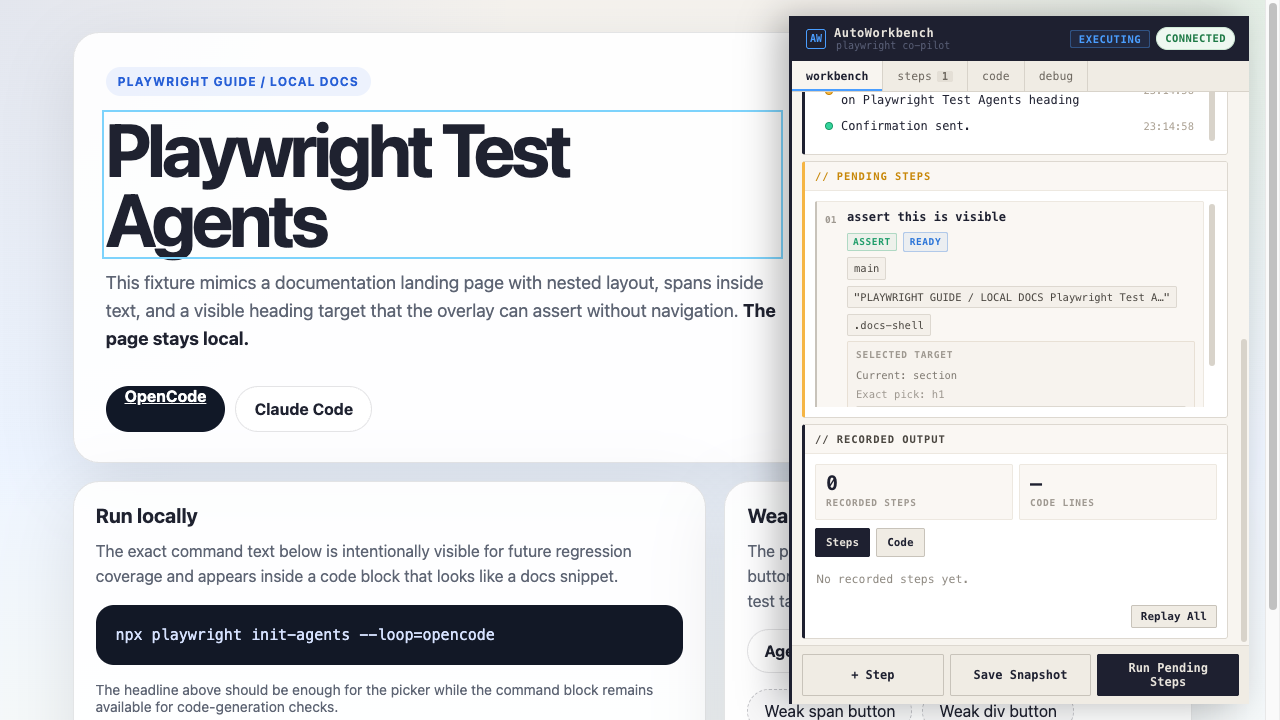
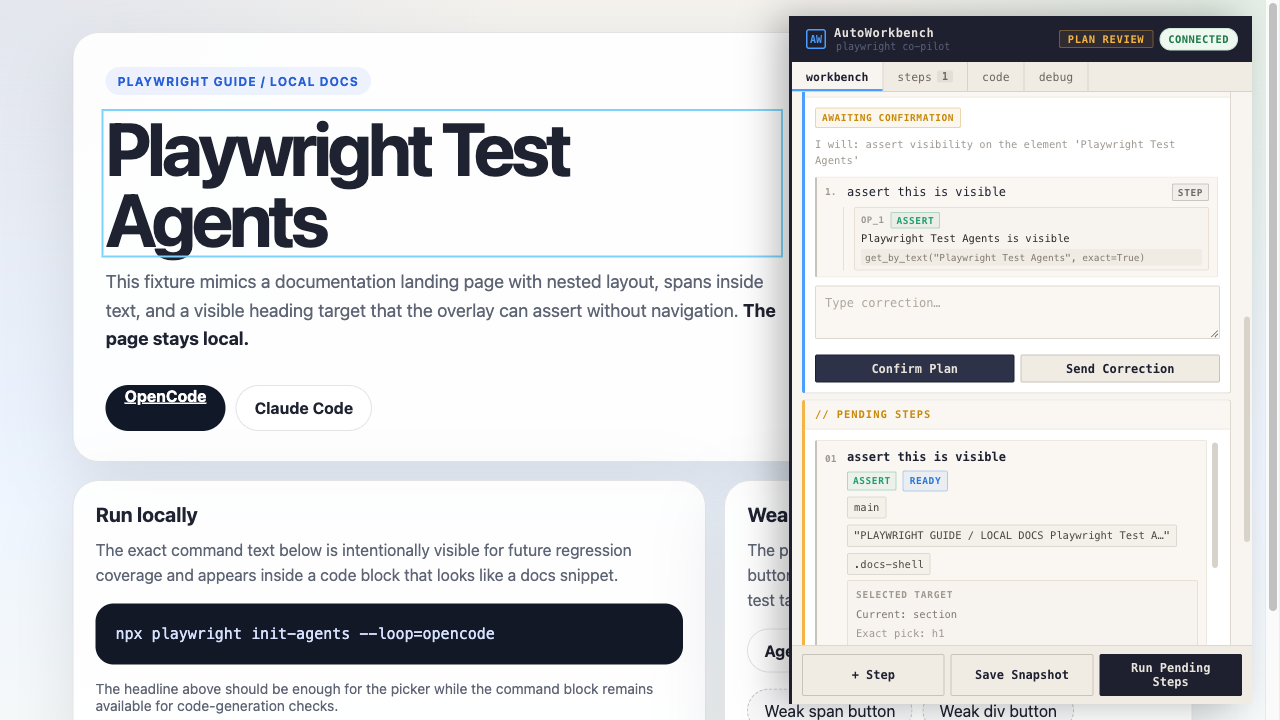
refactor: complete industrial-standard agent.py modularization
Extracted 15 focused domain modules from the 9302-line AgentLoop monolith:

- event/emitter.py: WebSocket send + emit helpers
- locator/resolver.py: locator building, resolution, escape helpers
- skills/loader.py: skill file loading and prompt composition
- step/manager.py: step state machine (23 delegate methods)
- recording/codegen.py: Playwright code generation
- recording/recorder.py: step recording and action history
- recording/replay.py: replay_one and replay_all
- plan/state.py: active plan and confirmed execution contract (31 methods)
- plan/builder.py: plan_ready payload builders
- plan/correction.py: diff editor pipeline and correction classification
- plan/confirmation.py: wait_for_plan_confirmation
- llm/client.py: LLMClient (moved from top-level llm.py)
- llm/tool_definitions.py: tool JSON schemas
- llm/tool_dispatcher.py: tool dispatch routing
- llm/orchestrator.py: LLM message history and followup logic
- ws/router.py: WebSocket command routing (extracted from server.py)

AgentLoop retains backward-compatible delegates. 528/528 tests green.

diff --git a/tests/test_recorded_step_model.py b/tests/test_recorded_step_model.py
@@ -976,6 +976,63 @@ def test_canonicalize_assertion_operation_prefers_exact_text_for_generic_main_lo
     assert child["locator"] == 'get_by_text("Playwright Test Agents", exact=True)'
 
 
+def test_canonicalize_visible_assertion_prefers_locator_hint_over_broad_source_text() -> None:
+    loop = _make_loop()
+    specific_target = "Playwright Test Agents"
+    broad_page_text = "PLAYWRIGHT GUIDE / LOCAL DOCS Playwright Test Agents docs landing page"
+    step_context = _make_step_context()
+    step_context["intent"] = f"Assert {specific_target} is visible"
+    step_context["element_name"] = broad_page_text
+    step_context["element_info"] = {
+        "text": broad_page_text,
+        "attributes": {"aria-label": broad_page_text},
+    }
+
+    child = loop._canonicalize_assertion_operation(
+        {
+            "type": "assert",
+            "target": broad_page_text,
+            "locator": f'get_by_text("{specific_target}", exact=True)',
+            "assertion": "visible",
+        },
+        source_step=step_context,
+    )
+
+    assert child["assertion"] == "visible"
+    assert child["target"] == specific_target
+    assert child["description"] == f"{specific_target} is visible"
+    assert child["locator"] == f'get_by_text("{specific_target}", exact=True)'
+
+
+def test_canonicalize_visible_assertion_prefers_source_locator_over_broad_child_locator() -> None:
+    loop = _make_loop()
+    specific_target = "Playwright Test Agents"
+    broad_page_text = "PLAYWRIGHT GUIDE / LOCAL DOCS Playwright Test Agents docs landing page"
+    step_context = _make_step_context()
+    step_context["intent"] = f"Assert {specific_target} is visible"
+    step_context["element_name"] = broad_page_text
+    step_context["element_info"] = {
+        "text": broad_page_text,
+        "attributes": {"aria-label": broad_page_text},
+    }
+    step_context["locator"] = f'get_by_text("{specific_target}", exact=True)'
+
+    child = loop._canonicalize_assertion_operation(
+        {
+            "type": "assert",
+            "target": broad_page_text,
+            "locator": f'get_by_text("{broad_page_text}", exact=True)',
+            "assertion": "visible",
+        },
+        source_step=step_context,
+    )
+
+    assert child["assertion"] == "visible"
+    assert child["target"] == specific_target
+    assert child["description"] == f"{specific_target} is visible"
+    assert child["locator"] == f'get_by_text("{specific_target}", exact=True)'
+
+
 def test_confirmed_visible_assertion_keeps_specific_target_and_emits_code_update_when_source_text_is_broader() -> None:
     loop = _make_loop()
     specific_target = "Playwright Test Agents"

diff --git a/AGENTS.md b/AGENTS.md
@@ -1,77 +1,76 @@
 <claude-mem-context>
 # Memory Context
 
-# [agent v4] recent context, 2026-05-06 11:27pm GMT+5:30
+# [agent v4] recent context, 2026-05-09 11:14pm GMT+5:30
 
 Legend: 🎯session 🔴bugfix 🟣feature 🔄refactor ✅change 🔵discovery ⚖️decision 🚨security_alert 🔐security_note
 Format: ID TIME TYPE TITLE
 Fetch details: get_observations([IDs]) | Search: mem-search skill
 
-Stats: 50 obs (28,900t read) | 481,423t work | 94% savings
+Stats: 50 obs (25,843t read) | 932,257t work | 97% savings
 
-### May 2, 2026
-S106 Read-only investigation of recorded parent/child display wording in AutoWorkbench (agent v4) — tracing why parent title and children repeat the same full intent text (May 2 at 7:34 AM)
-S110 Read-only investigation: corrected plan UI shows ASSERT child text as "navigation" instead of "Get started is visible" in agent v4 (May 2 at 11:40 AM)
-### May 3, 2026
-S111 Fix Element Picker target quality and parent/ancestor selection in agent v4 autoworkbench (May 3 at 5:54 PM)
-S113 Build AutoWorkbench Regression Harness v1 — automated test harness with fixture site, mocked LLM helpers, and six regression tests covering state/recording/correction flows in /Users/apple/personal/agent v4 (May 3 at 8:06 PM)
-S114 AutoWorkbench E2E harness port contract fix — backend was starting on PORT=8765 but harness waited on a dynamic port (May 3 at 8:48 PM)
-S112 Build AutoWorkbench Regression Harness v1 — automated end-to-end test harness with fixture site, mock LLM helpers, and six regression tests for state/recording/correction flows (May 3 at 8:48 PM)
-S115 AutoWorkbench E2E harness port contract fix — COMPLETE. Backend was starting on PORT=8765 (.env override) but harness waited on a dynamic port. Full fix delivered and E2E passing. (May 3 at 9:32 PM)
-S116 AutoWorkbench E2E harness port contract fix — all fixes shipped and verified, E2E passing in 48.84s (May 3 at 9:34 PM)
-S117 Tasks.md no-Docker source spike for AutoWorkbench — full evaluation of Markdown Kanban board tooling (May 3 at 9:35 PM)
-### May 6, 2026
-S120 EPIC-008 Recording and Codegen planning — preceded by deep review and quality audit of EPIC-007 Complete LLM Mode MVP Flows batch (May 6 at 1:53 AM)
-2082 2:34a 🔵 Existing Rejection/Blocking Patterns in agent.py Pre-Contract
-2083 2:35a 🟣 Task Markdown File Structure for Backend Runtime Truth Epic
-2084 " 🔵 Backend Runtime Session ID Implementation in agent.py
-2085 " ⚖️ Slice 1 Scope Locked: Contract Tests Before Implementation
-2086 2:36a 🔵 Canonical Schema Version String: "autoworkbench.spec.v1"
-2087 " 🔵 WebSocket Command/Response Envelope Contracts for replay_one and replay_all
-2088 2:37a 🔵 Exact Response Shape Assertions Exist for replay_one and replay_all WebSocket Routes
-2089 " 🔵 schema_version Not Asserted in replay_one or replay_all Response Tests
-2090 2:38a 🔵 Canonical Result Type Strings for All WebSocket Response Envelopes
-2091 " 🟣 Contract Test Suite Created for runtime/event_contracts.py
-2092 " 🟣 save_snapshot_result Envelope Upgraded to Canonical Backend Event Format
-2093 9:09p ⚖️ Batch 12 Testing Doctrine Review Initiated for AutoWorkbench / Playwright Automation Co-pilot
-2094 " 🔵 Batch 12 Testing Doctrine File Sizes Confirmed in AutoWorkbench Project
-2095 " 🔵 Batch 12 Full Testing Doctrine Content Read and Verified for AutoWorkbench
-2096 9:10p 🔵 FINAL-HANDOFF and PLAN-005 Cross-Reference Confirms Batch 12 Doctrine Consistency
-2097 9:19p ⚖️ Batch 13 Test Matrix Review Requested for AutoWorkbench Playwright Automation Co-pilot
-2098 " 🔵 Batch 13 Test Matrix Files Fully Read and Sized for AutoWorkbench Review
-2099 9:20p 🔵 Batch 13 Test Matrices Lack Several PATCH-010-Required Coverage Areas
-2100 9:21p 🔵 PATCH-010 Sections 4–6 Confirm Specific Missing Test Rows in Batch 13 Matrices
-2101 9:22p 🔵 PATCH-010 Sections 7–11 Confirm Frontend, E2E, Trace, and Handoff Gaps in Batch 13
-2102 9:33p 🔵 AutoWorkbench Batch 12/13 Test Mapping Initiative
-2103 " 🔵 AutoWorkbench Repo Test Structure: Complete Inventory
-2104 9:34p 🔵 AutoWorkbench: Complete Test Function Inventory and E2E Flow Details
-2105 9:35p 🔵 AutoWorkbench E2E Test Artifacts and Frontend Test Gap Confirmed
-2106 9:36p ⚖️ Batch 12 Testing Doctrine Review Initiated for AutoWorkbench / Playwright Automation Co-pilot
-2107 " 🔵 AutoWorkbench E2E Test Suite Architecture Mapped
-2108 " 🔵 Six Detailed Test Matrix Files Confirmed Present in AutoWorkbench Planning
-2109 9:37p 🔵 AutoWorkbench Full Task ID Taxonomy Mapped from FINAL-HANDOFF
-2110 9:40p 🔵 AutoWorkbench Core Architecture Contract Documented in SOURCE-001
-2111 9:53p ⚖️ FINAL-HANDOFF-v2 Planning Review Initiated for AutoWorkbench Playwright Co-pilot
-2112 9:54p 🔵 FINAL-HANDOFF-v2 Full Content Captured and Compared Against Source Planning Documents
-2113 10:06p ⚖️ DEVELOPER-EXECUTION-PLAN-001 Review Initiated for AutoWorkbench Playwright Automation Co-pilot
-2114 10:07p 🔵 AutoWorkbench Planning Document Suite Fully Read — DEVELOPER-EXECUTION-PLAN-001 Review Context Established
-2115 " 🔵 PATCH-012 Acceptance Criteria Confirmed — FINAL-HANDOFF-v2 Patch Chain Complete
-2116 10:08p 🔵 FINAL-HANDOFF-v2 Repo Gap Analysis Confirmed — Major Missing Infrastructure Identified
-2117 11:10p 🔵 AutoWorkbench Repo Baseline and Branch Strategy Audit Initiated
-2118 11:11p 🔵 AutoWorkbench Git State: Uncommitted Changes on test-dd-version-one Branch
-2119 11:19p ⚖️ Git Worktree Branch Strategy for Docs/Planning Baseline
-2120 11:20p 🔵 Agent-v4 Source Repo State: Dirty Worktree and Untracked Files Inventoried
-2121 " 🔴 Git Branch Creation Fails: "unable to create directory for refs/heads/backup/" and "refs/heads/docs/"
-2122 11:21p 🔵 Git Ref Lock Failure Root Cause: packed-refs or macOS Filesystem Permissions Issue
-2123 " 🔵 Git Slash-Branch Failure: Not packed-refs, Not Invalid Format — Likely macOS Filesystem or .git Lock File Issue
-2124 " 🔵 Root Cause Found: .git/refs/heads/ Directory is Write-Protected ("Operation not permitted")
-2125 11:24p 🔴 Backup Branch Created Successfully with Escalated Permissions
-2126 " 🟣 docs/planning-baseline Worktree Created at main (commit 08b2cdb)
-2127 " 🔴 rsync Fails with EPERM: --relative Creates Full Absolute Path Tree Instead of Copying to CWD
-2128 11:25p 🟣 rsync Copy to Baseline Worktree Succeeded with Escalated Permissions
-2129 " 🔴 Baseline Worktree Contains Forbidden Paths and Wrong Directory Tree from main Branch
-2130 11:26p 🔵 Branch Inventory: backup and docs/planning-baseline Successfully Created
-2131 " 🔵 Source Worktree Untouched; Baseline Worktree Has Only Spurious "Users/" as Untracked
+### May 8, 2026
+S134 Session start greeting — user said "hi" (May 8 at 4:56 PM)
+S135 Sprint 3 task board setup for AutoWorkbench / Playwright Automation Co-pilot — LLM Cost, Call Count, and Context Optimization (May 8 at 5:27 PM)
+S136 Sprint 3 task board quality audit — verifying planning files against actual codebase state and identifying implementation gaps (May 8 at 5:28 PM)
+S137 Prepare Sprint 3 task board for LLM cost and call count optimization, then implement foundation infrastructure for token measurement and control (May 8 at 5:29 PM)
+S138 Sprint 3 E2E verification and token baseline documentation for AutoWorkbench Playwright Automation Co-pilot (May 8 at 5:40 PM)
+S139 Sprint 3 acceptance review — user flagged mistakes in the analysis of what was done vs what was actually achieved (May 8 at 5:47 PM)
+S140 Sprint 3 acceptance correction completed and Sprint 3 Phase 2 Cursor prompt delivered — board corrected, stories reopened, full wiring instructions prepared (May 8 at 5:51 PM)
+S141 AutoWorkbench Sprint 3 planning complete — now exploring agent.py codebase to understand step/locator structure for INT-CALL-001 deterministic fast path implementation (May 8 at 5:52 PM)
+S142 Sprint 3 Phase 2 completion — wire token optimization modules into live E2E path, prove measured token reduction, update task board, generate final report (May 8 at 5:59 PM)
+S143 AutoWorkbench Sprint 3 token diagnosis: understand where tokens are actually going before implementing any fixes (May 8 at 7:44 PM)
+4143 9:24p 🟣 Sprint 3 Full 6-Test E2E Acceptance Suite PASSED — All Tests Green in 62.88s
+4144 9:25p ✅ Sprint 3 Officially Closed: INT-LLM-004 Moved to Done, Full Suite Passes Twice
+4145 " 🔵 Backend Log Evidence Confirms Sprint 3 LLM-Path Acceptance Criteria Met
+4146 " ✅ INT-LLM-004 Task Completed with Full Evidence Documentation
+4147 9:26p ✅ Sprint 3 LLM-Path Acceptance Coverage Committed to Git
+### May 9, 2026
+4148 9:28p ⚖️ Sprint 3.5 — Backend Contract Confidence, Integration Testing, and Refactor Readiness
+4149 9:29p 🔵 Sprint 3.5 Read-Only Architecture Audit: Full Codebase and Test Coverage Map
+4150 9:49p ⚖️ Sprint 3.5 — Backend Contract Confidence and Refactor Readiness Plan
+4151 9:50p 🔵 Preflight Git State for Sprint 3.5 Start
+4152 " 🔵 Task Board Structure at Sprint 3.5 Start
+4153 " 🔵 Sprint 3 File Still Shows "In Progress" Status at Sprint 3.5 Start
+4154 9:51p 🔵 Board Governance Files Are Two Sprints Stale
+4155 9:52p ✅ Sprint 3.5 Planning Files Created and Board Updated
+4156 " 🟣 TEST-ARCH-003: WebSocket Command-to-Event Integration Harness Completed
[phone redacted]:13p ⚖️ TEST-ARCH-002 Golden Backend Event Sequence Tests — Sprint 3.5 Next Story
+4158 " 🔵 Sprint 3.5 Preflight: Repo State Confirmed Clean for TEST-ARCH-002
+4159 " 🔵 Existing Event Sequence Test Infrastructure — Helpers and Patterns Available for Reuse
+4160 " 🔵 Backend Contract Confidence Matrix — Full Coverage Inventory for Sprint 3.5
[phone redacted]:14p 🔵 Event Type Coverage Map — run_started Is E2E-Only, Not a Typed Backend Event
[phone redacted]:15p 🟣 TEST-ARCH-002: Golden Backend Event Sequence Tests Created
[phone redacted]:16p 🔵 TEST-ARCH-002 Initial Test Run: 3 Failures Reveal Contract Gaps Requiring Fixes
+4164 " 🔴 TEST-ARCH-002 Golden Sequence Test Fixes — Confirmed Execution Contract Wiring and Fast-Path Assertion
+4165 " 🔵 Confirmed Execution Contract Requires Exact Locator Match from Confirmed Plan, Not Caller-Supplied Locator
[phone redacted]:17p 🟣 TEST-ARCH-002 All 4 Golden Backend Event Sequence Tests Passing
+4167 " ✅ TEST-ARCH-002 Staged for Commit — Only 2 Files, No Unrelated Changes
+4168 " 🟣 TEST-ARCH-002 Committed — Golden Backend Event Sequence Tests at 79168c4
[phone redacted]:22p ✅ Sprint 3.5 Git Log Confirmed — 27 Commits Ahead of Origin After TEST-ARCH-002
+4170 " ✅ TEST-ARCH-006 Started — Lifecycle Checkpoint Bridge Tests for run_started and execution_started
[phone redacted]:23p 🔵 run_started and execution_started — Definitive Contract Audit for TEST-ARCH-006
+4172 " 🟣 TEST-ARCH-006: Lifecycle Checkpoint Bridge Tests Created
+4173 " 🔵 TEST-ARCH-006 Bridge Test 3 Fails — Same Confirmed Execution Contract Issue as TEST-ARCH-002
[phone redacted]:24p 🟣 TEST-ARCH-006 Complete: Lifecycle Checkpoint Contract Tests
[phone redacted]:28p 🔵 PhaseTracker Phase Progression: executing → completed After Last Step Recorded
[phone redacted]:45p ⚖️ TEST-ARCH-004: Recording code_update Contract Integration Tests Planned
[phone redacted]:46p 🔵 AutoWorkbench Sprint 3.5 Repo State Verified at HEAD d0ae865
+4178 " ✅ TEST-ARCH-004 Moved to In Progress on Task Board
+4179 " 🔵 Existing Test Coverage Audit for TEST-ARCH-004 Contract Properties
[phone redacted]:47p 🔵 TEST-ARCH-004 Task File Content and Precise Coverage Gap Identified
+4181 " 🔵 Baseline Test Suite Green Before TEST-ARCH-004 New File
+4182 " ⚖️ TEST-ARCH-004 Closed as Done: No New Test File Needed
+4183 " ✅ TEST-ARCH-004 Committed as Done at a30a152
[phone redacted]:49p ✅ TEST-ARCH-005 Started: Fast Path vs LLM Path Integration Contract Tests
[phone redacted]:50p 🔵 TEST-ARCH-005 Baseline Audit: Fast Path vs LLM Path Coverage Inventory
+4186 " 🔵 TEST-ARCH-005 Deep Audit: Fast Path vs LLM Path Architecture in agent.py
+4187 " 🔵 TEST-ARCH-005 Task File Confirmed In Progress; Implementation Patterns Fully Mapped
[phone redacted]:51p ⚖️ TEST-ARCH-005 Closed as Done: Fast Path vs LLM Path Parity Already Covered
+4189 " ⚖️ Sprint 3.5 Refactor Closure Batch — Codex Task Definition
[phone redacted]:09p 🔄 REF-001 through REF-004 Completed — Sprint 3.5 Safe Refactor Loop Closed
[phone redacted]:10p ✅ Sprint 3.5 Refactor Closure Report Created and Committed
[phone redacted]:14p ✅ AutoWorkbench Sprint 3.5 Formally Closed — Ready for Sprint 4
 
-Access 481k tokens of past work via get_observations([IDs]) or mem-search skill.
+Access 932k tokens of past work via get_observations([IDs]) or mem-search skill.
 </claude-mem-context>